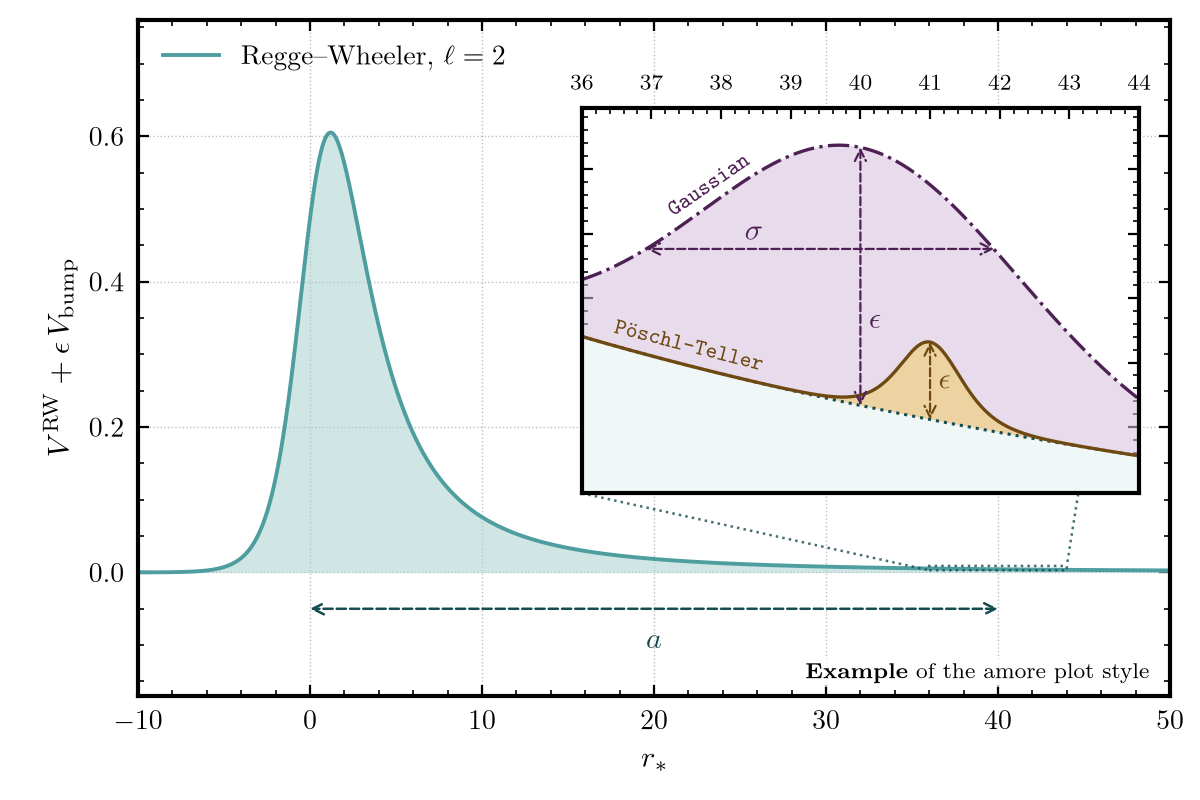
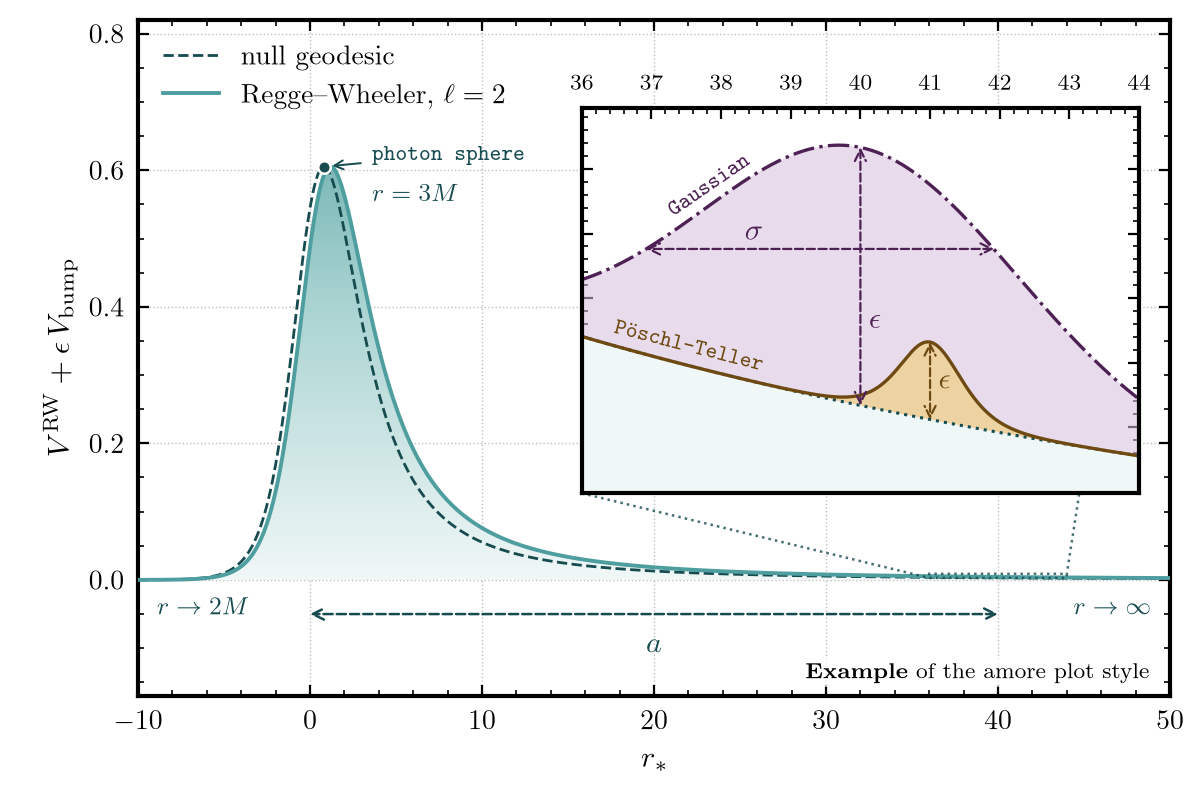
amore example: Regge-Wheeler plot with a gradient and a null-geodesic comparison
- Fill the barrier with a vertical teal gradient (shade to light to main).
- Add the null-geodesic potential (1 - 2M/r) L^2/r^2, scaled to the same peak
  height, to compare the shapes.
- Mark the photon sphere r = 3M at its peak.
- Label the ends of the axis: r -> 2M and r -> infinity.
- The inset does not change.

Claude-Session: https://claude.ai/code/session_014jvk12Cx7MpCLE6J3t3DqW

diff --git a/src/python/amore/examples.py b/src/python/amore/examples.py
@@ -9,6 +9,7 @@ from pathlib import Path
 
 import numpy as np
 import matplotlib.pyplot as plt
+from matplotlib.colors import LinearSegmentedColormap
 
 sys.path.insert(0, str(Path(__file__).resolve().parents[1]))
 import amore  # noqa: E402
@@ -55,11 +56,23 @@ def tortoise_to_r(rstar):
 
 def potential_with_bump():
     """Teal, amber and plum (close to a triad): the Regge-Wheeler potential, and the same
-    potential with a small Poschl-Teller or Gaussian bump at a distance a from the peak."""
+    potential with a small Poschl-Teller or Gaussian bump at a distance a from the peak.
+
+    The barrier has a vertical gradient fill. The dashed curve is the effective potential of
+    null geodesics, V_null = (1 - 2M/r) L^2 / r^2, from the radial equation
+    (dr/dlambda)^2 + V_null = E^2. A null ray depends only on b = L/E, so the scale of V_null is
+    free; the plot scales it to the peak height of the Regge-Wheeler potential, to compare the
+    shapes. The peak of V_null is the photon sphere r = 3M (r = 1.5 in units 2M = 1,
+    r_* = 1.5 + log 0.5), marked with a dot. The Regge-Wheeler peak is at r = 1.64 for l = 2;
+    for large l the potential tends to V_null with L^2 = l (l + 1). The labels at the two ends
+    show that r_* -> -inf at the horizon r = 2M and r_* -> +inf at spatial infinity."""
     teal, amber, plum = (amore.palette(n) for n in ("teal", "amber", "plum"))
     rstar = np.linspace(-10, 50, 6000)
     r = tortoise_to_r(rstar)
     v_rw = (1 - 1 / r) * (6 / r ** 2 - 3 / r ** 3)           # l = 2, spin 2, units 2M = 1
+    r_photon = 1.5                                            # r = 3M, units 2M = 1
+    shape = lambda r_: (1 - 1 / r_) / r_ ** 2                 # noqa: E731  V_null / L^2
+    v_null = v_rw.max() * shape(r) / shape(r_photon)          # same peak height as V_RW
     a, eps_pt, w = 41.0, 0.0012, 0.6                          # Poschl-Teller bump
     b, eps_g, sigma = 40.0, 0.004, 2.3                        # Gaussian bump
     v_pt = v_rw + eps_pt / np.cosh((rstar - a) / w) ** 2
@@ -68,9 +81,26 @@ def potential_with_bump():
 
     fig, ax = amore.figure()
     ax.set_xlim(-10, 50)
-    ax.set_ylim(-0.17, 0.76)
-    ax.fill_between(rstar, v_rw, color=teal["light"], alpha=0.55, lw=0)
-    ax.plot(rstar, v_rw, color=teal["main"], lw=1.4, label=r"Regge--Wheeler, $\ell = 2$")
+    ax.set_ylim(-0.17, 0.82)
+    # The gradient fill: a vertical ramp from the shade tone at V = 0 to the light tone at the
+    # peak, clipped to the area under the potential.
+    under = ax.fill_between(rstar, v_rw, color="none", lw=0)
+    ramp = LinearSegmentedColormap.from_list("ramp", [teal["shade"], teal["light"], teal["main"]])
+    fill = ax.imshow(np.linspace(0, 1, 256)[:, None], extent=(-10, 50, 0, v_rw.max()),
+                     origin="lower", aspect="auto", cmap=ramp, vmin=0, vmax=1.35, zorder=1)
+    fill.set_clip_path(under.get_paths()[0], transform=ax.transData)
+    ax.plot(rstar, v_null, color=teal["ink"], lw=1.0, ls="--", zorder=4,
+            label=r"null geodesic")
+    x_ps, y_ps = r_photon + np.log(r_photon - 1), v_rw.max()
+    ax.plot([x_ps], [y_ps], ls="none", marker="o", ms=4.5, color=teal["ink"], mec="white",
+            mew=0.9, zorder=5)
+    ax.text(3.6, 0.555, r"$r = 3M$", color=teal["ink"], fontsize=9)
+    ax.annotate(r"\texttt{photon sphere}", xy=(x_ps, y_ps), xytext=(3.6, 0.615),
+                fontsize=8, color=teal["ink"],
+                arrowprops=dict(arrowstyle="->", lw=0.7, color=teal["ink"], shrinkA=2, shrinkB=3))
+    ax.text(-8.9, -0.025, r"$r \to 2M$", color=teal["ink"], fontsize=9, va="top")
+    ax.text(48.9, -0.025, r"$r \to \infty$", color=teal["ink"], fontsize=9, va="top", ha="right")
+    ax.plot(rstar, v_rw, color=teal["main"], lw=1.4, zorder=4, label=r"Regge--Wheeler, $\ell = 2$")
     ax.annotate("", xy=(0, -0.05), xytext=(b, -0.05),
                 arrowprops=dict(arrowstyle="<->", lw=0.9, ls="--", color=teal["ink"],
                                 shrinkA=0, shrinkB=0))
